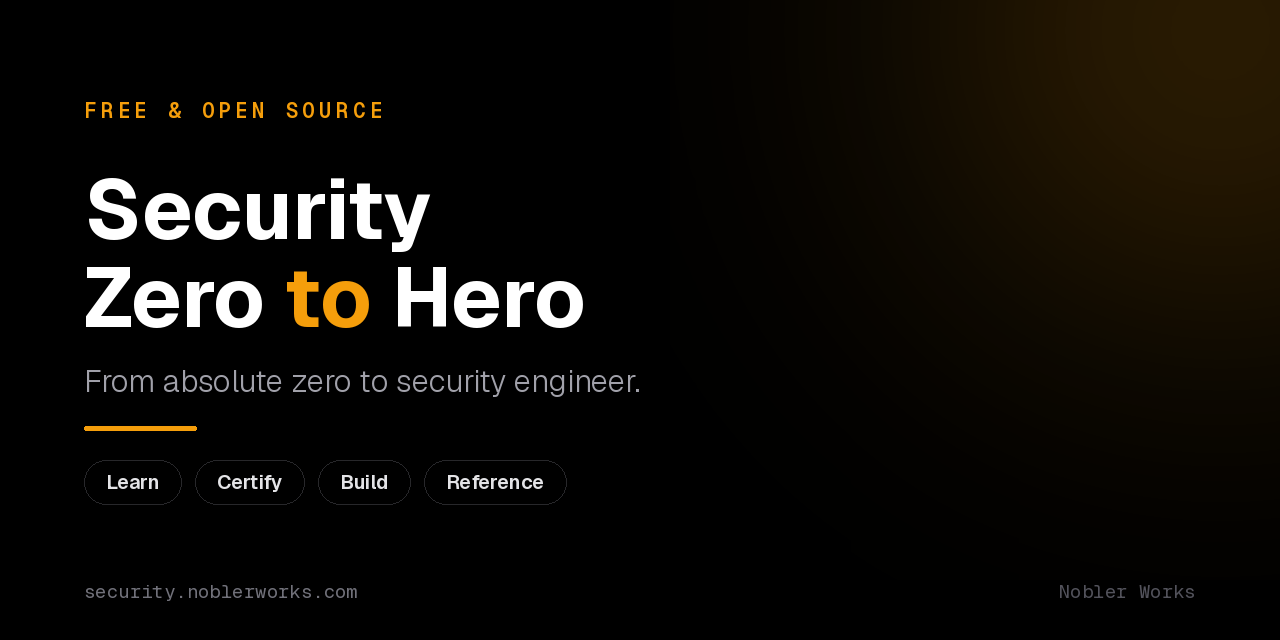
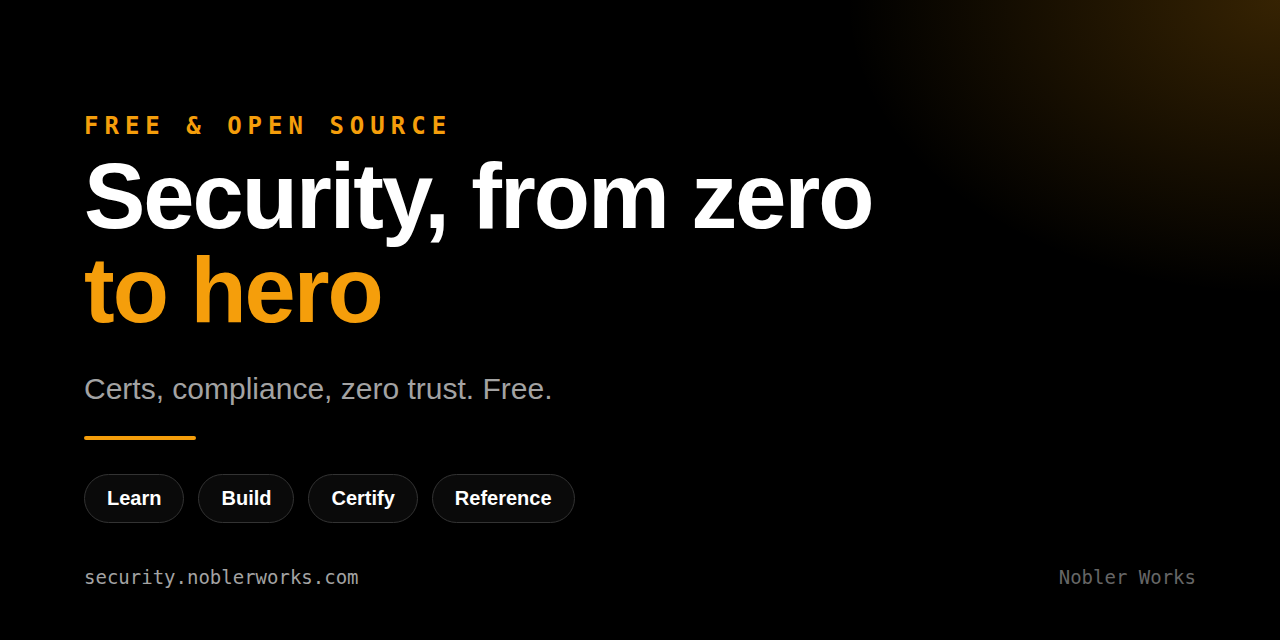
Same pattern on all four: "<Subject>, from zero to hero" home title and one shared social card template

diff --git a/assets/brand/social-preview.html b/assets/brand/social-preview.html
@@ -1,0 +1,31 @@
+<!doctype html>
+<!-- Social preview card (1280x640). One template for all four Zero to Hero sites
+     (cloud / data / security / ai .noblerworks.com) - change all four together.
+     Render: serve this folder over http and screenshot at 1280x640 into
+     social-preview-1280x640.png (headless Chromium or Playwright). No counts on the
+     card: a number baked into an image is a number nothing checks. -->
+<html><head><meta charset="utf-8">
+<style>
+  html,body{margin:0;padding:0;background:#000}
+  .card{width:1280px;height:640px;box-sizing:border-box;padding:0 84px;position:relative;overflow:hidden;
+    background:radial-gradient(ellipse 620px 420px at 100% 0%, rgba(245,158,11,0.22), transparent 70%), #000;
+    font-family:"Inter","Helvetica Neue",Arial,sans-serif;color:#fff}
+  .kicker{position:absolute;top:112px;font-family:"DejaVu Sans Mono",monospace;font-size:24px;letter-spacing:6px;color:#f59e0b;font-weight:700}
+  h1{position:absolute;top:150px;margin:0;font-size:92px;line-height:1.02;font-weight:800;letter-spacing:-2px}
+  h1 .a{color:#f59e0b}
+  .sub{position:absolute;top:372px;font-size:30px;color:#a3a3a3}
+  .rule{position:absolute;top:436px;width:112px;height:4px;background:#f59e0b;border-radius:2px}
+  .chips{position:absolute;top:474px;display:flex;gap:14px}
+  .chip{border:1px solid #333;border-radius:28px;padding:12px 22px;font-size:20px;font-weight:700;background:#0a0a0a}
+  .url{position:absolute;bottom:52px;font-family:"DejaVu Sans Mono",monospace;font-size:19px;color:#a3a3a3}
+  .brand{position:absolute;bottom:52px;right:84px;font-family:"DejaVu Sans Mono",monospace;font-size:19px;color:#666}
+</style></head>
+<body><div class="card">
+  <div class="kicker">FREE &amp; OPEN SOURCE</div>
+  <h1>Security, from zero<br><span class="a">to hero</span></h1>
+  <div class="sub">Certs, compliance, zero trust. Free.</div>
+  <div class="rule"></div>
+  <div class="chips"><div class="chip">Learn</div><div class="chip">Build</div><div class="chip">Certify</div><div class="chip">Reference</div></div>
+  <div class="url">security.noblerworks.com</div>
+  <div class="brand">Nobler Works</div>
+</div></body></html>

diff --git a/.github/site-overrides/main.html b/.github/site-overrides/main.html
@@ -10,7 +10,7 @@
   build.
 
   The image is assets/brand/social-preview-1280x640.png, generated by
-  .github/scripts/build-social-card.py and the same file uploaded to GitHub's own
+  assets/brand/social-preview.html (one template shared by all four Zero to Hero sites) and the same file uploaded to GitHub's own
   social preview, so the repo and the site present identically.
 
   NOTE: like partials/nav-item.html, this couples the site to Material's template

diff --git a/CLAUDE.md b/CLAUDE.md
@@ -31,7 +31,7 @@ security-zero-to-hero/
 - Reference: compliance frameworks, security and identity service comparisons, roadmap, interview prep
 - Markdown-based knowledge base; `STUDY-HUB.md` is the navigation hub.
 - **Also published as a website**: <https://security.noblerworks.com/>, built by `.github/workflows/docs-site.yml` on push to `main`. The site is generated from the markdown as-is - **never restructure content or add frontmatter to satisfy the site build.** Site-only fixes go in `.github/scripts/build-site.py`, which transforms a staged copy in `.site-src/` and never touches the repo's markdown. Theme colour lives in `.github/site/extra.css` (near-black plus the amber accent `#d97706`, Security's colour in the Zero to Hero family; layout ported from gitGood.dev; `mkdocs.yml` sets `primary: custom` so Material's palettes are bypassed). Light-mode text uses `--nw-accent-text` `#b45309` (5.0:1 on white).
-- **Site URL is read from `mkdocs.yml` `site_url`** by `notify-indexnow.py`, `build-social-card.py`, `check-repo-metadata.py` and the robots.txt step in `build-site.py`. Change it there only. The IndexNow key in `.github/site/indexnow-key.txt` is this site's own; never copy a sibling's.
+- **Site URL is read from `mkdocs.yml` `site_url`** by `notify-indexnow.py`, `check-repo-metadata.py` and the robots.txt step in `build-site.py`. Change it there only. The IndexNow key in `.github/site/indexnow-key.txt` is this site's own; never copy a sibling's.
 - **Zero to Hero family bar**: the `announce` block in `.github/site-overrides/main.html` and the CSS block at the end of `.github/site/extra.css` are identical across all four sibling repos. Edit all four together, never one.
 - **The site's home page is `.github/site/home.md`, not `README.md`.** A repo front page (banner, badges, repo structure, "star this repo") and a website landing page want different things, so the build renders `home.md` over the staged `README.md`. Editing the README does not change the site's front door - except for the "What's new" bullets, which are extracted from it. Every number on that page is a `{{token}}` filled from `certs.json` and `check-readme-counts.py`; never type a figure into it. See [docs/ARCHITECTURE.md](./docs/ARCHITECTURE.md#the-home-page-is-not-the-readme).
 - Organized by purpose (learn / certify / reference) and within each, by provider.

diff --git a/CONTRIBUTING.md b/CONTRIBUTING.md
@@ -165,7 +165,7 @@ Several scripts live under `.github/scripts/`. The validators run in CI on every
 - `glossary-upgrade-existing-links.py` - upgrades old section-level glossary links to per-term anchors when an anchor is available.
 
 - `check-repo-metadata.py` - checks the GitHub repository description, homepage and topics against the tree. The description is generated from `docs/certs.json`, never typed. `--fix` patches it, and needs admin rights, so it runs locally rather than in CI.
-- `build-social-card.py` - renders `assets/brand/social-preview-1280x640.png`, used both as GitHub's social preview and as the site's Open Graph image. Needs `pillow`.
+- `assets/brand/social-preview.html` - the social preview card template (same layout on all four Zero to Hero sites); screenshot it at 1280x640 into `assets/brand/social-preview-1280x640.png`, used both as GitHub's social preview and the site's Open Graph image.
 
 **CI workflows under `.github/workflows/`:**
 

diff --git a/.github/site/home.md b/.github/site/home.md
@@ -24,7 +24,7 @@
 
 <div class="home-hero" markdown>
 
-# Security Zero to Hero { .home-title }
+# Security, from zero to hero { .home-title }
 
 <p class="home-intro">A plain-English path from zero to security engineer, plus study guides for the security certifications employers ask for - free, no signup, nothing gated.</p>
 
